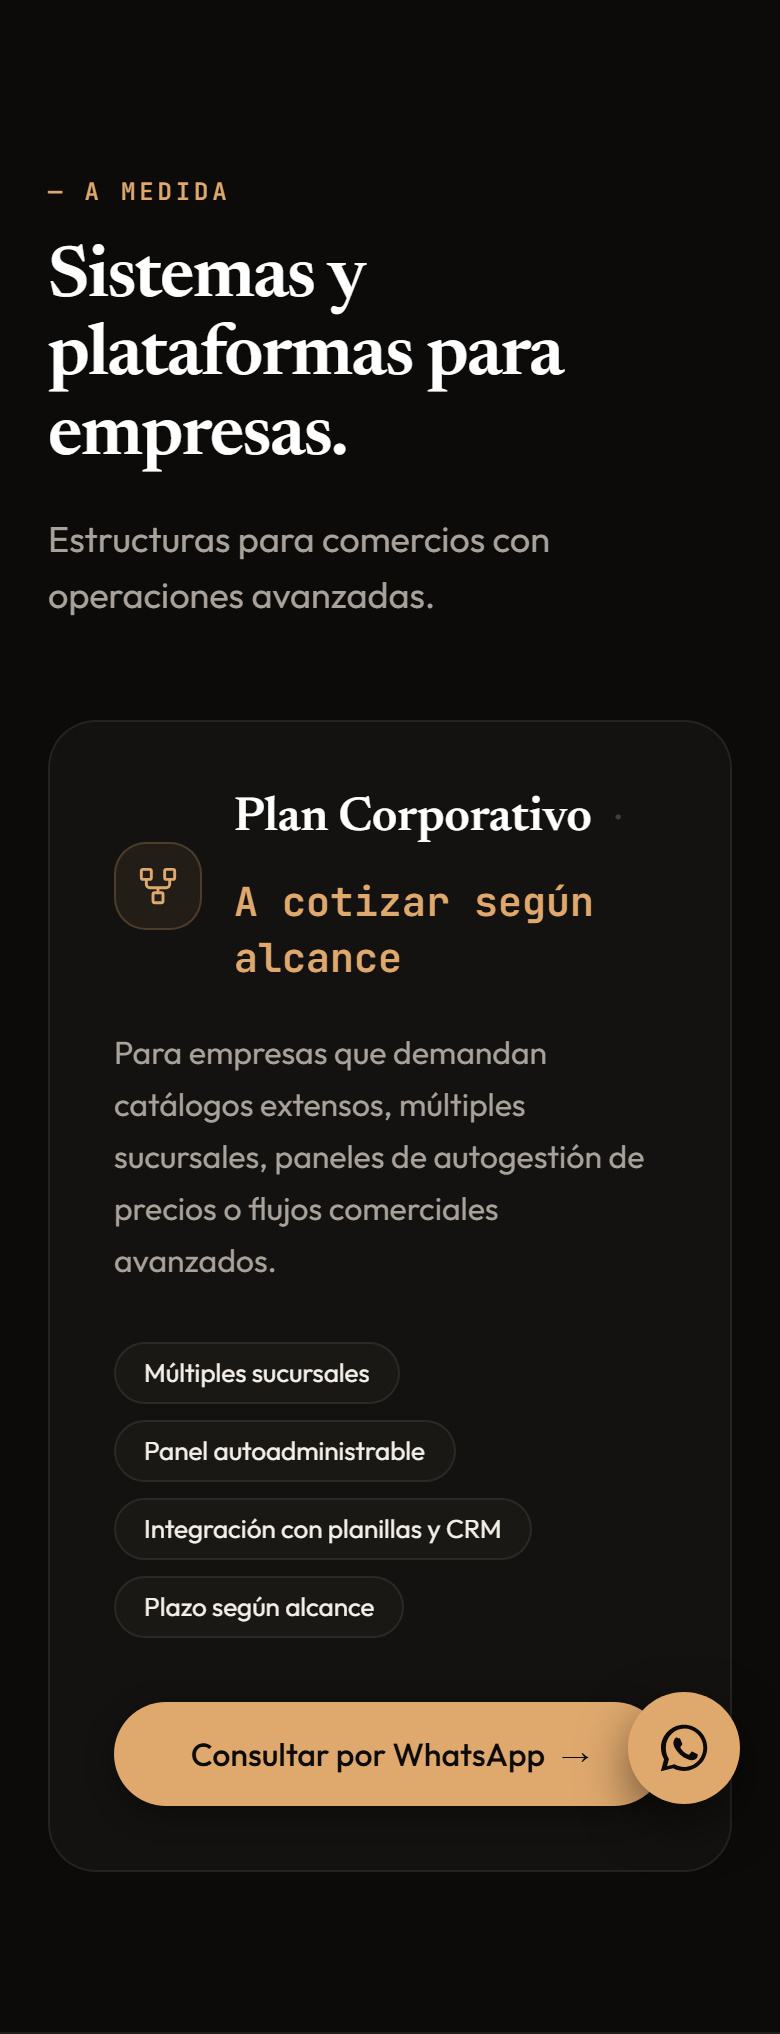
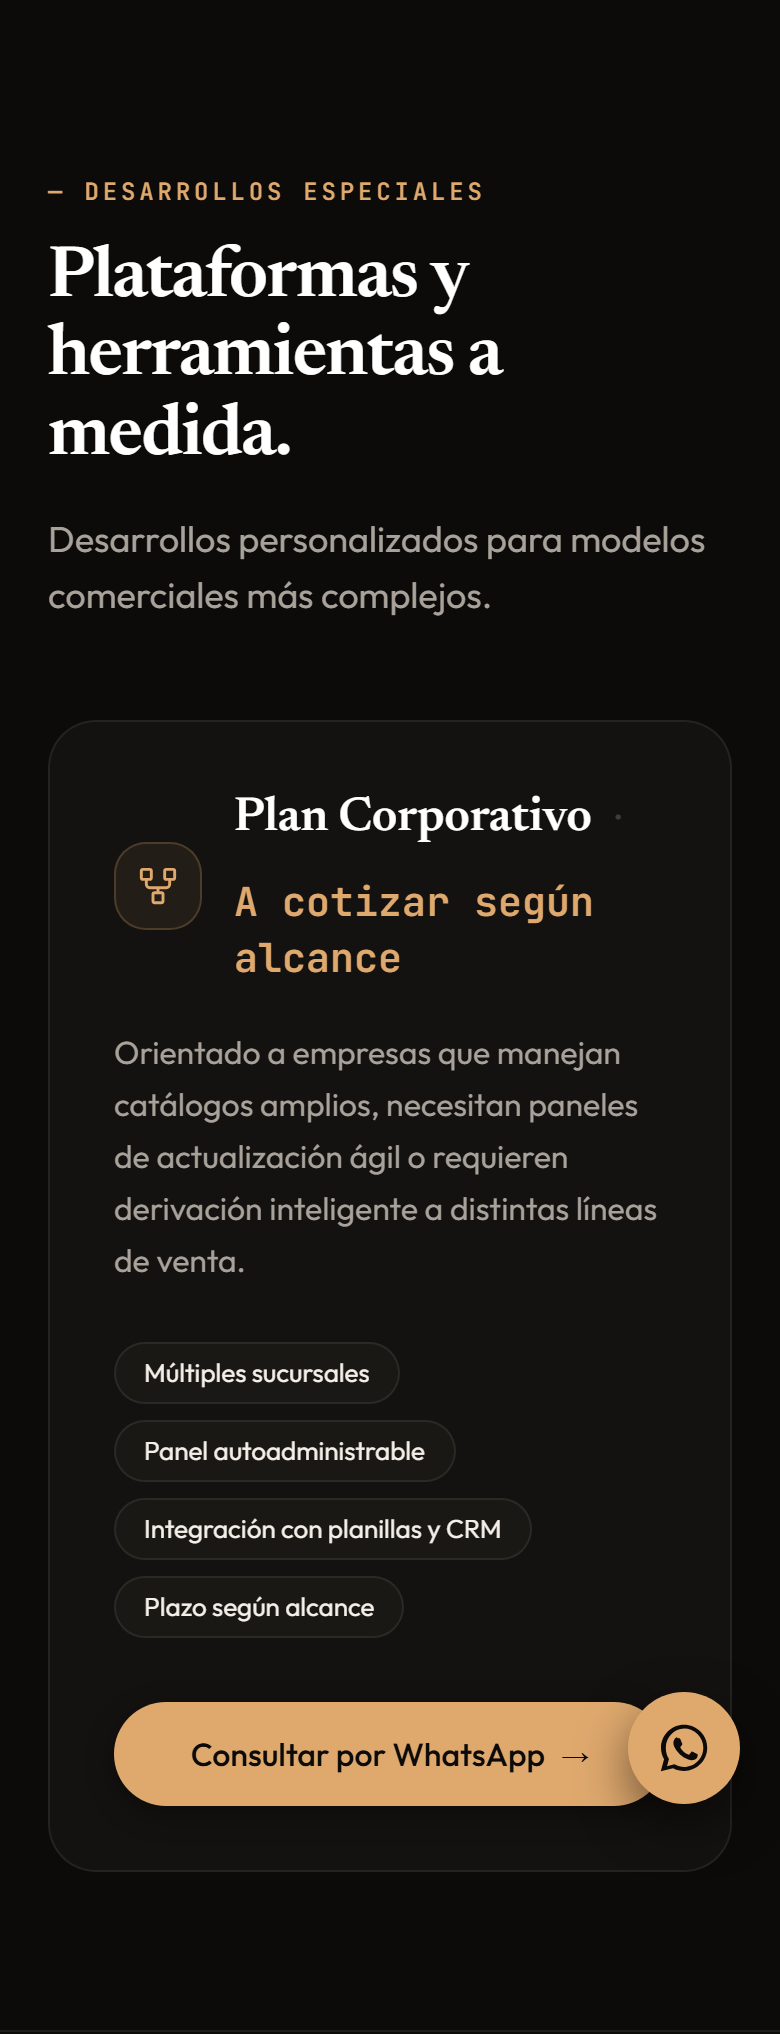
Auditoria anti-plagio: textos reescritos con voz propia original de Punto Prisma Studio eliminando copias de libresitio.com

Changed region(s): [[0.0615, 0.0929, 0.8923, 0.3097], [0.1538, 0.4956, 0.8308, 0.6504]]

diff --git a/index.html b/index.html
@@ -49,7 +49,7 @@
   <!-- Enlace Accesible de Salto a Contenido Principal -->
   <a href="#planes"
     class="sr-only focus:not-sr-only focus:fixed focus:top-4 focus:left-4 focus:z-50 focus:px-4 focus:py-2 focus:bg-[#DFA96E] focus:text-[#0C0B0A] focus:font-mono focus:text-xs focus:font-bold focus:shadow-lg focus:outline-none">
-    Saltar a los planes
+    Ver planes y modalidades
   </a>
 
   <!-- ───────────── 1. HEADER EDITORIAL ───────────── -->
@@ -146,8 +146,7 @@
             </h1>
 
             <p class="text-[#A8A29A] text-base sm:text-lg leading-relaxed max-w-xl font-sans font-normal">
-              Sin comisiones por venta. Listo en 7 días hábiles. Empezás con el 30% y pagás el 70% restante cuando ves
-              tu web terminada y la aprobás.
+              Venta directa sin intermediarios. Tu catálogo listo en 7 días hábiles. Empezás con el 30% de seña y completás el 70% restante recién al aprobar tu web terminada.
             </p>
 
             <div class="pt-2 flex flex-col sm:flex-row items-stretch sm:items-center gap-4">
@@ -238,9 +237,9 @@
               </svg>
             </div>
             <div class="space-y-1.5">
-              <h3 class="font-serif font-semibold text-xl text-white">Precio final con IVA</h3>
+              <h3 class="font-serif font-semibold text-xl text-white">Facturación legal con IVA</h3>
               <p class="text-[#A8A29A] text-sm sm:text-base font-sans leading-relaxed">
-                Sin costos ocultos ni sorpresas. Factura legal paraguaya en cada entrega.
+                Importes transparentes con comprobante oficial deducible para tu comercio.
               </p>
             </div>
           </div>
@@ -254,9 +253,9 @@
               </svg>
             </div>
             <div class="space-y-1.5">
-              <h3 class="font-serif font-semibold text-xl text-white">Sin comisiones por venta</h3>
+              <h3 class="font-serif font-semibold text-xl text-white">Ingresos íntegros para vos</h3>
               <p class="text-[#A8A29A] text-sm sm:text-base font-sans leading-relaxed">
-                El 100% de cada cobro ingresa directo a tu cuenta bancaria o en caja.
+                El total de cada pedido entra directamente a tu banco o caja sin retenciones ni comisiones.
               </p>
             </div>
           </div>
@@ -269,9 +268,9 @@
               </svg>
             </div>
             <div class="space-y-1.5">
-              <h3 class="font-serif font-semibold text-xl text-white">Tu pedido llega armado a tu WhatsApp</h3>
+              <h3 class="font-serif font-semibold text-xl text-white">Recepción organizada en WhatsApp</h3>
               <p class="text-[#A8A29A] text-sm sm:text-base font-sans leading-relaxed">
-                Con productos, cantidades, total calculado y datos del cliente listos.
+                Mensajes claros con ítems, cantidades, subtotal automático y datos del cliente listos para atender.
               </p>
             </div>
           </div>
@@ -290,10 +289,10 @@
         <div class="reveal-on-scroll max-w-2xl mb-12 sm:mb-16">
           <span class="section-tag">— PLANES</span>
           <h2 class="font-h2 text-white mt-3 mb-4">
-            Tres modalidades claras para tu negocio.
+            Opciones pensadas para cada escala comercial.
           </h2>
           <p class="text-[#A8A29A] text-lg font-sans">
-            30% para empezar, 70% restante al aprobar tu web terminada.
+            Iniciás con el 30% de anticipo y liquidás el 70% recién al aprobar tu web terminada.
           </p>
           <p id="planesOfferBanner" class="text-sm text-[#DFA96E] font-sans mt-2.5 font-medium">Oferta de lanzamiento para los primeros 5 clientes. Después aplica el precio regular.</p>
         </div>
@@ -336,22 +335,22 @@
 
                   <div>
                     <h3 class="font-serif font-semibold text-2xl lg:text-3xl text-white inline">Presencia</h3>
-                    <span class="text-[#A8A29A] text-sm sm:text-base font-sans ml-2.5 font-normal">Una página</span>
+                    <span class="text-[#A8A29A] text-sm sm:text-base font-sans ml-2.5 font-normal">Página esencial</span>
                   </div>
 
                   <p class="text-[#A8A29A] text-sm sm:text-base font-sans leading-relaxed">
-                    Tu tarjeta digital. Lo justo para que te encuentren y te escriban.
+                    Tu presentación profesional online. La síntesis perfecta para validar tu marca y canalizar consultas.
                   </p>
 
                   <div class="flex flex-wrap gap-2 pt-0.5">
-                    <span class="feature-chip">Qué hacés</span>
-                    <span class="feature-chip">Horario</span>
-                    <span class="feature-chip">Mapa</span>
-                    <span class="feature-chip">Botón a WhatsApp</span>
+                    <span class="feature-chip">Propuesta de valor</span>
+                    <span class="feature-chip">Horarios de atención</span>
+                    <span class="feature-chip">Ubicación GPS</span>
+                    <span class="feature-chip">Acceso directo a chat</span>
                   </div>
 
                   <p class="text-xs text-[#A8A29A]/80 font-sans tracking-wide pt-1">
-                    Dominio + llave en mano · 1 página · 1 correo
+                    Dominio propio incluido · Puesta en marcha total · 1 correo corporativo
                   </p>
                 </div>
               </div>
@@ -360,8 +359,8 @@
               <div
                 class="lg:col-span-3 flex flex-row lg:flex-col justify-between lg:justify-center items-baseline lg:items-start gap-4 sm:gap-6 border-t lg:border-t-0 border-[#F4EFE8]/[0.08] pt-4 lg:pt-0">
                 <div>
-                  <span class="font-mono text-[11px] text-[#A8A29A] uppercase tracking-wider block">AL AIRE EN</span>
-                  <div class="font-sans text-xl sm:text-2xl font-bold text-white mt-0.5">7 días</div>
+                  <span class="font-mono text-[11px] text-[#A8A29A] uppercase tracking-wider block">PLAZO DE ENTREGA</span>
+                  <div class="font-sans text-xl sm:text-2xl font-bold text-white mt-0.5">7 días hábiles</div>
                 </div>
                 <div>
                   <span id="priceLabelPresencia" class="font-mono text-[11px] text-[#DFA96E] uppercase tracking-wider block font-semibold">OFERTA DE LANZAMIENTO</span>
@@ -437,7 +436,7 @@
                     <span class="font-mono text-xs text-[#A8A29A] font-medium">02</span>
                     <span
                       class="inline-flex items-center px-2.5 py-0.5 rounded-full border border-[#DFA96E]/50 bg-[#DFA96E]/15 text-[11px] text-[#DFA96E] font-mono uppercase tracking-wider font-bold shadow-sm">
-                      RECOMENDADO · PLAN PRINCIPAL
+                      MÁS ELEGIDO · EXPERIENCIA COMPLETA
                     </span>
                   </div>
 
@@ -447,19 +446,18 @@
                   </div>
 
                   <p class="text-[#A8A29A] text-sm sm:text-base font-sans leading-relaxed">
-                    El paquete de todos los días. Para cuando una página no alcanza y querés que tus clientes compren
-                    directo en su celular.
+                    Nuestra solución insignia. Diseñada para que tus compradores exploren tu inventario, sumen al carrito y te envíen pedidos armados por WhatsApp.
                   </p>
 
                   <div class="flex flex-wrap gap-2 pt-0.5">
-                    <span class="feature-chip">Catálogo con carrito</span>
-                    <span class="feature-chip">Pedido a WhatsApp</span>
-                    <span class="feature-chip">Buscador y filtros</span>
-                    <span class="feature-chip">Cálculo automático</span>
+                    <span class="feature-chip">Catálogo interactivo</span>
+                    <span class="feature-chip">Despacho a WhatsApp</span>
+                    <span class="feature-chip">Búsqueda y categorías</span>
+                    <span class="feature-chip">Subtotales automáticos</span>
                   </div>
 
                   <p class="text-xs text-[#A8A29A]/80 font-sans tracking-wide pt-1">
-                    Dominio + llave en mano · Carrito integrado · 0% comisiones
+                    Dominio propio incluido · Carrito sin cargos por venta · Carga de inventario
                   </p>
                 </div>
               </div>
@@ -468,8 +466,8 @@
               <div
                 class="lg:col-span-3 flex flex-row lg:flex-col justify-between lg:justify-center items-baseline lg:items-start gap-4 sm:gap-6 border-t lg:border-t-0 border-[#F4EFE8]/[0.08] pt-4 lg:pt-0">
                 <div>
-                  <span class="font-mono text-[11px] text-[#A8A29A] uppercase tracking-wider block">AL AIRE EN</span>
-                  <div class="font-sans text-xl sm:text-2xl font-bold text-white mt-0.5">7 días</div>
+                  <span class="font-mono text-[11px] text-[#A8A29A] uppercase tracking-wider block">PLAZO DE ENTREGA</span>
+                  <div class="font-sans text-xl sm:text-2xl font-bold text-white mt-0.5">7 días hábiles</div>
                 </div>
                 <div>
                   <span id="priceLabelCatalogo" class="font-mono text-[11px] text-[#DFA96E] uppercase tracking-wider block font-semibold">OFERTA DE LANZAMIENTO</span>
@@ -547,23 +545,22 @@
 
                   <div>
                     <h3 class="font-serif font-semibold text-2xl lg:text-3xl text-white inline">Corporativo</h3>
-                    <span class="text-[#A8A29A] text-sm sm:text-base font-sans ml-2.5 font-normal">A medida</span>
+                    <span class="text-[#A8A29A] text-sm sm:text-base font-sans ml-2.5 font-normal">Arquitectura a medida</span>
                   </div>
 
                   <p class="text-[#A8A29A] text-sm sm:text-base font-sans leading-relaxed">
-                    Estructura multipágina y sistemas para empresas medianas y grandes con múltiples sucursales o
-                    derivación técnica.
+                    Infraestructura web escalable para firmas con catálogo extenso, distribución técnica o coordinación de múltiples puntos de venta.
                   </p>
 
                   <div class="flex flex-wrap gap-2 pt-0.5">
-                    <span class="feature-chip">Portal multipágina</span>
-                    <span class="feature-chip">Panel autogestión</span>
-                    <span class="feature-chip">Multisucursal</span>
+                    <span class="feature-chip">Estructura multipágina</span>
+                    <span class="feature-chip">Panel administrativo</span>
+                    <span class="feature-chip">Ruteo multisucursal</span>
                     <span class="feature-chip">Dominio propio y SSL</span>
                   </div>
 
                   <p class="text-xs text-[#A8A29A]/80 font-sans tracking-wide pt-1">
-                    Dominio + llave en mano · Multipágina · Factura legal
+                    Desarrollo a medida · Despliegue integral · Factura legal con IVA
                   </p>
                 </div>
               </div>
@@ -572,7 +569,7 @@
               <div
                 class="lg:col-span-3 flex flex-row lg:flex-col justify-between lg:justify-center items-baseline lg:items-start gap-4 sm:gap-6 border-t lg:border-t-0 border-[#F4EFE8]/[0.08] pt-4 lg:pt-0">
                 <div>
-                  <span class="font-mono text-[11px] text-[#A8A29A] uppercase tracking-wider block">AL AIRE EN</span>
+                  <span class="font-mono text-[11px] text-[#A8A29A] uppercase tracking-wider block">PLAZO DE ENTREGA</span>
                   <div class="font-sans text-xl sm:text-2xl font-bold text-white mt-0.5">A convenir</div>
                 </div>
                 <div>
@@ -629,18 +626,18 @@
         <!-- Encabezado de Sección: Título + Contador y Flechas -->
         <div class="reveal-on-scroll flex flex-col md:flex-row md:items-end justify-between gap-6 mb-8">
           <div class="max-w-2xl">
-            <span class="section-tag">— CATÁLOGO</span>
+            <span class="section-tag">— MODELOS EN VIVO</span>
             <h2 class="font-h2 text-white mt-3 mb-4">
-              Plantillas, en vivo.
+              Experiencias reales para tu rubro.
             </h2>
             <p class="text-[#A8A29A] text-lg font-sans">
-              Cada una con su concepto, su tipografía y sus colores. Abrila y navegala como lo haría tu cliente.
+              Diseños funcionales con identidad visual propia. Probá la navegación, seleccioná productos y comprobá la fluidez de compra.
             </p>
           </div>
 
           <!-- Contador y Flechas de Navegación -->
           <div class="flex items-center gap-4 shrink-0">
-            <span id="demosCount" class="font-mono text-xs sm:text-sm text-[#A8A29A]">6 plantillas</span>
+            <span id="demosCount" class="font-mono text-xs sm:text-sm text-[#A8A29A]">6 modelos</span>
             <div class="flex items-center gap-2">
               <button type="button" id="carouselPrev" aria-label="Plantilla anterior"
                 class="w-10 h-10 rounded-full border border-[#F4EFE8]/15 hover:border-[#DFA96E] text-[#A8A29A] hover:text-white flex items-center justify-center transition cursor-pointer">
@@ -1094,12 +1091,12 @@
 
         <!-- Encabezado de Sección -->
         <div class="reveal-on-scroll max-w-2xl mb-12 sm:mb-16">
-          <span class="section-tag">— CÓMO TE CUIDAMOS</span>
+          <span class="section-tag">— RESPALDO Y COMPROMISOS</span>
           <h2 class="font-h2 text-white mt-3 mb-4">
-            Condiciones claras desde el primer contacto.
+            Tranquilidad respaldada en cada etapa.
           </h2>
           <p class="text-[#A8A29A] text-lg font-sans">
-            Garantías pensadas para que compres con total tranquilidad y respaldo.
+            Pautas claras y transparentes para que avances con total seguridad operativa.
           </p>
         </div>
 
@@ -1118,10 +1115,9 @@
                   </svg>
                 </div>
               </div>
-              <h3 class="font-serif font-semibold text-2xl text-white">Pago 30/70</h3>
+              <h3 class="font-serif font-semibold text-2xl text-white">Esquema 30/70</h3>
               <p class="text-[#A8A29A] text-base font-sans leading-relaxed">
-                Empezás con el 30%. El 70% restante lo pagás cuando ves tu web terminada en un enlace de prueba y la
-                aprobás. Recién entonces la publicamos.
+                Iniciás con el 30% en concepto de seña. El 70% restante se cancela únicamente tras revisar tu web terminada en un enlace privado y dar tu visto bueno.
               </p>
             </div>
           </div>
@@ -1138,11 +1134,9 @@
                   </svg>
                 </div>
               </div>
-              <h3 class="font-serif font-semibold text-2xl text-white">Entrega en 7 días hábiles</h3>
+              <h3 class="font-serif font-semibold text-2xl text-white">Plazo de 7 días hábiles</h3>
               <p class="text-[#A8A29A] text-base font-sans leading-relaxed">
-                Válido para Presencia Express y Catálogo Móvil, contados desde que recibimos tus productos, fotos, logo
-                y la seña. Si nos atrasamos por nuestra culpa, te descontamos el 10% del saldo. En el plan Corporativo,
-                el plazo es según alcance y se confirma en la cotización.
+                Válido para Presencia y Catálogo Móvil, desde que contamos con tus materiales y la seña. Si existiera demora atribuible a nuestro equipo, bonificamos un 10% del saldo final.
               </p>
             </div>
           </div>
@@ -1159,10 +1153,9 @@
                   </svg>
                 </div>
               </div>
-              <h3 class="font-serif font-semibold text-2xl text-white">2 rondas de corrección</h3>
+              <h3 class="font-serif font-semibold text-2xl text-white">2 rondas de ajustes</h3>
               <p class="text-[#A8A29A] text-base font-sans leading-relaxed">
-                Revisamos textos, fotos, precios y detalles visuales para que tu web quede como la querés
-                antes de publicarla.
+                Afinamos textos, fotos, precios y detalles visuales para que tu web quede como la querés antes de darla de alta definitivamente.
               </p>
             </div>
           </div>
@@ -1200,13 +1193,12 @@
 
         <!-- Encabezado de Sección -->
         <div class="reveal-on-scroll max-w-2xl mb-12 sm:mb-16">
-          <span class="section-tag">— PROCESO</span>
+          <span class="section-tag">— METODOLOGÍA</span>
           <h2 class="font-h2 text-white mt-3 mb-4">
-            De tu inventario a WhatsApp en 4 pasos.
+            Tu catálogo online en 4 pasos simples.
           </h2>
           <p class="text-[#A8A29A] text-lg font-sans">
-            Sin reuniones largas ni jerga técnica. Nos enviás tu información y nosotros nos encargamos de todo el
-            montaje.
+            Un circuito ágil y directo. Vos nos compartís tus productos y nosotros nos ocupamos de la diagramación y puesta en marcha.
           </p>
         </div>
 
@@ -1223,9 +1215,9 @@
                 </svg>
               </div>
             </div>
-            <h3 class="font-serif font-semibold text-xl text-white">Información</h3>
+            <h3 class="font-serif font-semibold text-xl text-white">Envío de catálogo</h3>
             <p class="text-[#A8A29A] text-sm font-sans leading-relaxed">
-              Nos enviás tus fotos, lista de productos o servicios, precios y logo por WhatsApp o Drive.
+              Nos compartís tus fotografías, nombres de productos o servicios, tarifas y logo vía WhatsApp o Drive.
             </p>
           </div>
 
@@ -1239,9 +1231,9 @@
                 </svg>
               </div>
             </div>
-            <h3 class="font-serif font-semibold text-xl text-white">Seña del 30%</h3>
+            <h3 class="font-serif font-semibold text-xl text-white">Reserva y seña</h3>
             <p class="text-[#A8A29A] text-sm font-sans leading-relaxed">
-              Transferís la seña inicial para activar el desarrollo y reservar tu turno de entrega.
+              Abonás el 30% de seña para reservar tu lugar en agenda y comenzar el armado de inmediato.
             </p>
           </div>
 
@@ -1255,9 +1247,9 @@
                 </svg>
               </div>
             </div>
-            <h3 class="font-serif font-semibold text-xl text-white">Enlace de prueba</h3>
+            <h3 class="font-serif font-semibold text-xl text-white">Enlace de revisión</h3>
             <p class="text-[#A8A29A] text-sm font-sans leading-relaxed">
-              En 7 días hábiles recibís un enlace privado para navegar tu web, probar el carrito y pedir ajustes.
+              En 7 días hábiles te enviamos un link privado para navegar tu catálogo, verificar el carrito y solicitar ajustes.
             </p>
           </div>
 
@@ -1271,9 +1263,9 @@
                 </svg>
               </div>
             </div>
-            <h3 class="font-serif font-semibold text-xl text-white">Publicación</h3>
+            <h3 class="font-serif font-semibold text-xl text-white">Puesta en línea</h3>
             <p class="text-[#A8A29A] text-sm font-sans leading-relaxed">
-              Aprobás la versión final, abonás el 70% restante y publicamos tu catálogo en tu dominio propio.
+              Con el visto bueno definitivo, cancelás el 70% restante y habilitamos tu plataforma en tu dominio propio.
             </p>
           </div>
 
@@ -1289,12 +1281,12 @@
       <div class="max-w-[1200px] mx-auto px-6">
 
         <div class="reveal-on-scroll max-w-2xl mb-12">
-          <span class="section-tag">— A MEDIDA</span>
+          <span class="section-tag">— DESARROLLOS ESPECIALES</span>
           <h2 class="font-h2 text-white mt-3 mb-4">
-            Sistemas y plataformas para empresas.
+            Plataformas y herramientas a medida.
           </h2>
           <p class="text-[#A8A29A] text-lg font-sans">
-            Estructuras para comercios con operaciones avanzadas.
+            Desarrollos personalizados para modelos comerciales más complejos.
           </p>
         </div>
 
@@ -1321,8 +1313,7 @@
               </div>
 
               <p class="text-[#A8A29A] text-base font-sans leading-relaxed">
-                Para empresas que demandan catálogos extensos, múltiples sucursales, paneles de autogestión de precios o
-                flujos comerciales avanzados.
+                Orientado a empresas que manejan catálogos amplios, necesitan paneles de actualización ágil o requieren derivación inteligente a distintas líneas de venta.
               </p>
 
               <!-- Chips -->
@@ -1428,8 +1419,7 @@
             </button>
             <div
               class="faq-content hidden pt-4 text-[#A8A29A] text-base font-sans leading-relaxed border-t border-[#F4EFE8]/[0.06] mt-4">
-              Solo necesitás enviarnos tu logo (si no tenés, armamos un encabezado tipográfico limpio), fotos de tus
-              productos o servicios con sus nombres y precios, tus datos de contacto y la seña del 30%.
+              Solo requerimos que nos facilites tu logotipo (si aún no contás con uno, diseñamos una cabecera con tipografía cuidada), fotos de tus artículos o servicios con nombres y precios, datos de contacto y la seña inicial del 30%.
             </div>
           </div>
 
@@ -1476,9 +1466,9 @@
     <section class="py-24 sm:py-32 lg:py-40 text-center" aria-label="Contacto de cierre">
       <div class="max-w-[1200px] mx-auto px-6">
         <div class="reveal-on-scroll max-w-2xl mx-auto space-y-6">
-          <h2 class="font-h1 text-white">¿Hablamos?</h2>
+          <h2 class="font-h1 text-white">Empecemos hoy.</h2>
           <p class="text-[#A8A29A] text-lg sm:text-xl font-sans leading-relaxed">
-            Escribinos al WhatsApp con los productos de tu empresa. Te respondemos en menos de 15 minutos.
+            Escribinos a WhatsApp para coordinar el lanzamiento de tu catálogo. Te respondemos a la brevedad.
           </p>
           <div class="pt-4">
             <a href="https://wa.me/595986125649?text=Hola%20Punto%20Prisma%20Studio%2C%20quiero%20iniciar%20mi%20cat%C3%A1logo%20web"
